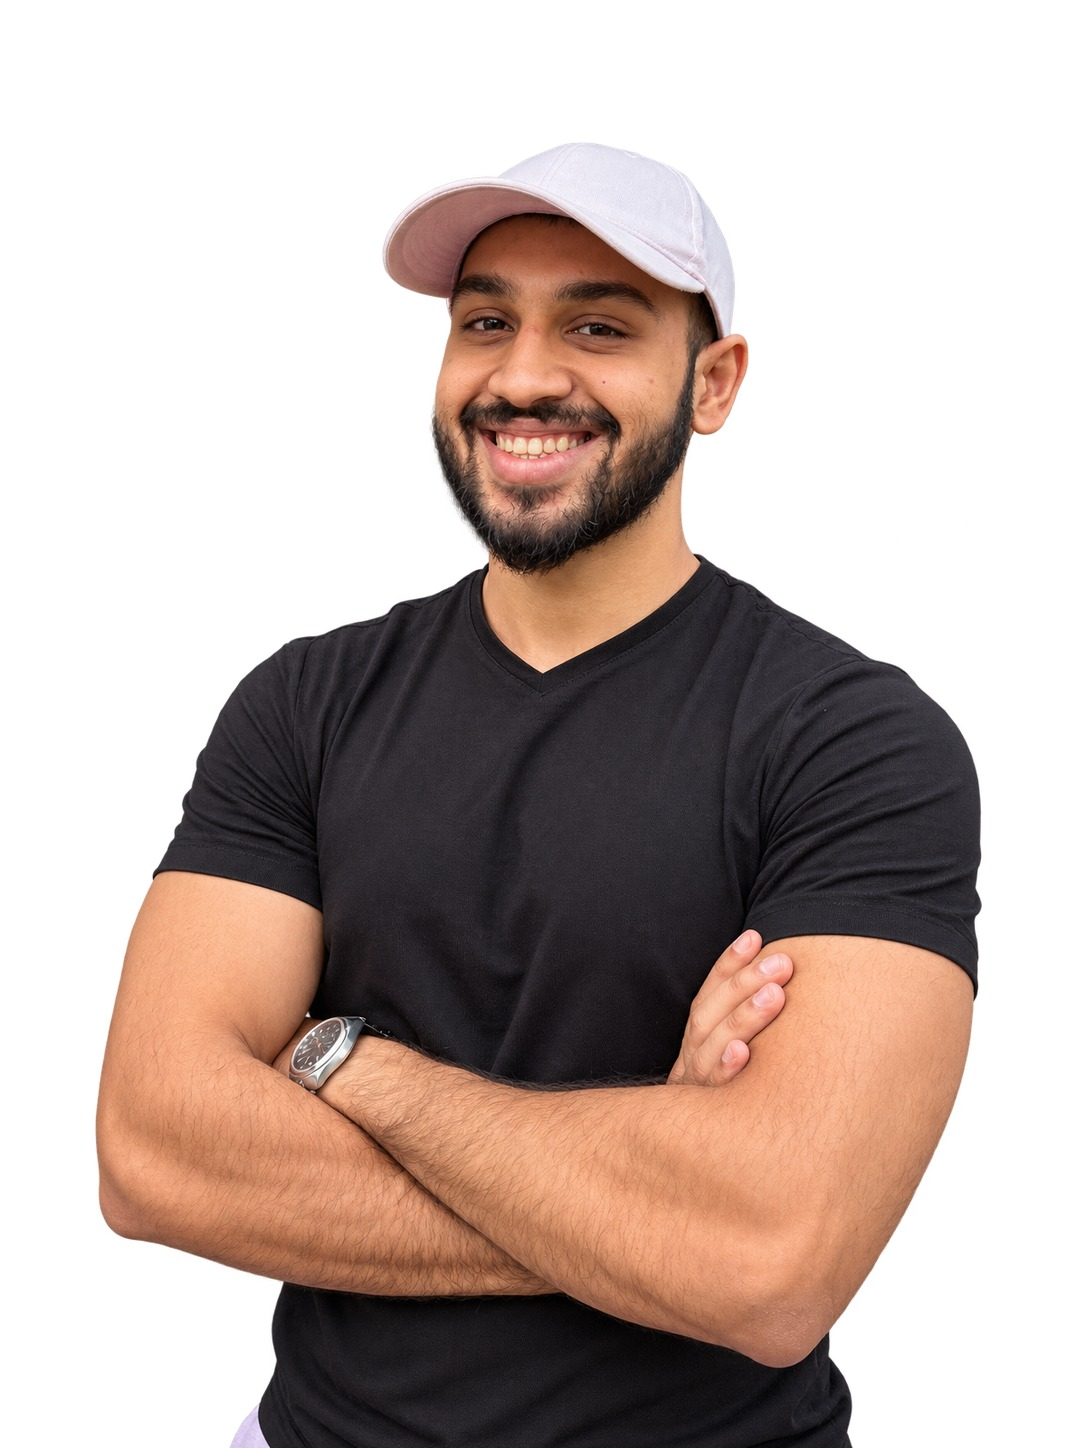
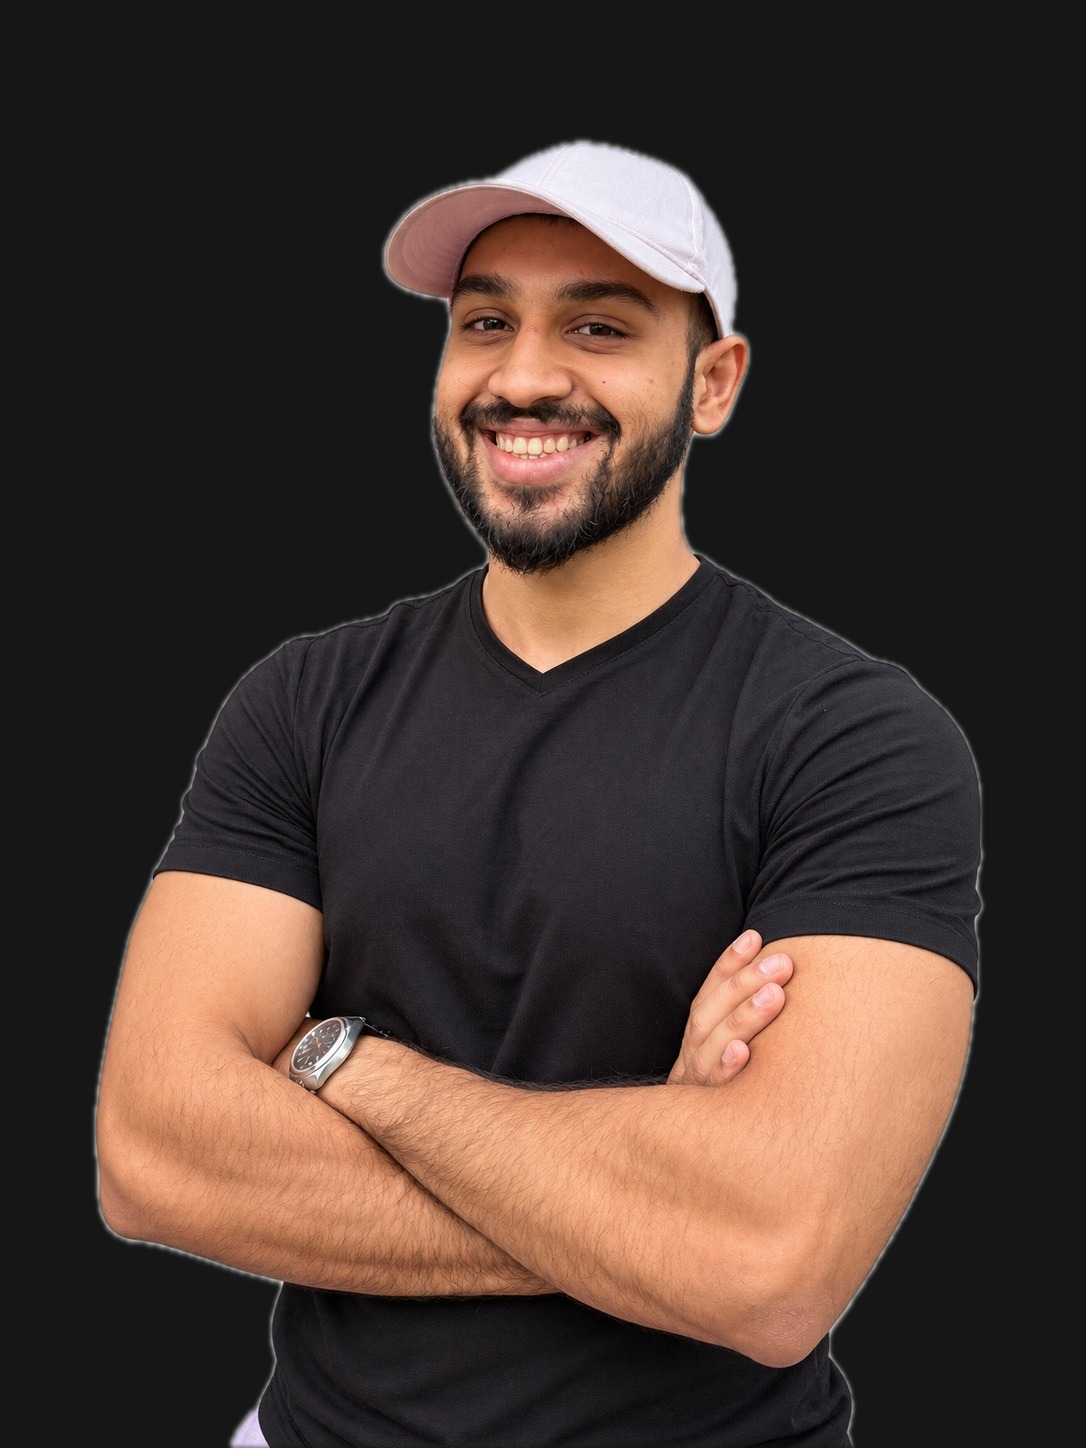
Black backgrounds for Ashley and Dr. Saikiran, remove 'next batch' wording

diff --git a/index.html b/index.html
@@ -344,7 +344,7 @@
       <div class="bg-white rounded-3xl border border-outline-variant/40 px-7 py-9 md:px-12 md:py-10 flex flex-col md:flex-row md:items-center justify-between gap-7 scroll-reveal from-bottom">
         <div>
           <h3 class="font-display text-2xl md:text-3xl font-extrabold text-on-surface tracking-tight mb-2">Five subjects, one mentorship</h3>
-          <p class="text-on-surface-variant font-body">Covered in depth, from the mechanism upward. Enquire and we will walk you through the batch.</p>
+          <p class="text-on-surface-variant font-body">Covered in depth, from the mechanism upward. Enquire and we will walk you through the mentorship.</p>
         </div>
         <a href="contact.html" class="shrink-0 inline-flex items-center justify-center gap-2 bg-accent text-on-surface px-8 py-4 rounded-xl font-bold text-base hover:bg-accent/90 transition-colors font-body">
           Enroll Now
@@ -395,7 +395,7 @@
               </div>
               <div class="sm:col-span-9">
                 <h3 class="font-display text-2xl md:text-3xl font-extrabold text-on-surface mb-3 tracking-tight"><span class="text-secondary">Lifetime access</span> &amp; continuous updates</h3>
-                <p class="text-on-surface-variant font-body leading-relaxed max-w-2xl">Learning does not stop when the batch does. Access never expires, and new sessions are added as the evidence moves, included, not sold again.</p>
+                <p class="text-on-surface-variant font-body leading-relaxed max-w-2xl">Learning does not stop when the course does. Access never expires, and new sessions are added as the evidence moves, included, not sold again.</p>
               </div>
             </div>
           </div>
@@ -407,7 +407,7 @@
           Enroll Now
           <span class="material-symbols-outlined text-xl">arrow_forward</span>
         </a>
-        <p class="text-on-surface-variant font-body text-sm mt-3">Enquire and we will walk you through how the batch runs.</p>
+        <p class="text-on-surface-variant font-body text-sm mt-3">Enquire and we will walk you through how the mentorship runs.</p>
       </div>
     </div>
   </section>

diff --git a/curriculum.html b/curriculum.html
@@ -310,7 +310,7 @@
           Enroll Now
           <span class="material-symbols-outlined text-xl">arrow_forward</span>
         </a>
-        <p class="text-on-surface-variant font-body text-sm mt-3">Sounds like you? Enquire and we will walk you through the next batch.</p>
+        <p class="text-on-surface-variant font-body text-sm mt-3">Sounds like you? Enquire and we will walk you through the mentorship.</p>
       </div>
     </div>
   </section>
@@ -375,7 +375,7 @@
           Enroll Now
           <span class="material-symbols-outlined text-xl">arrow_forward</span>
         </a>
-        <p class="text-on-surface-variant font-body text-sm mt-3">That is what the mentorship is built to close. Enquire to join the next batch.</p>
+        <p class="text-on-surface-variant font-body text-sm mt-3">That is what the mentorship is built to close. Enquire to join Nutrition Codes Academy.</p>
       </div>
     </div>
   </section>
@@ -701,7 +701,7 @@
               <span class="material-symbols-outlined text-accent text-3xl">all_inclusive</span>
               <h3 class="font-display text-2xl md:text-3xl font-extrabold text-white tracking-tight">Lifetime access</h3>
             </div>
-            <p class="md:col-span-7 text-white/70 font-body leading-relaxed md:pt-1">Access does not expire at the end of a batch. The material stays yours, and so does the mentorship.</p>
+            <p class="md:col-span-7 text-white/70 font-body leading-relaxed md:pt-1">Access does not expire when you finish the course. The material stays yours, and so does the mentorship.</p>
           </div>
           <div class="fs-row group px-6 md:px-14 py-7 md:py-9 grid grid-cols-1 md:grid-cols-12 gap-3 md:gap-10 items-start scroll-reveal">
             <div class="md:col-span-5 flex items-center gap-4">

diff --git a/js/entry-popup.js b/js/entry-popup.js
@@ -57,7 +57,7 @@
     '<div class="nca-ep-panel" role="document">' +
       '<button type="button" class="nca-ep-close" data-ep-dismiss aria-label="Close">&#10005;</button>' +
       '<p class="nca-ep-eyebrow">NCA Mentorship</p>' +
-      '<h2 id="nca-ep-title">Thinking of joining the next batch?</h2>' +
+      '<h2 id="nca-ep-title">Thinking of joining Nutrition Codes Academy?</h2>' +
       '<p class="nca-ep-sub">Send us a quick enquiry and a real person will reach out within 24 hours to answer your questions.</p>' +
       '<ul class="nca-ep-points">' +
         '<li>Walk through the curriculum and fee</li>' +
